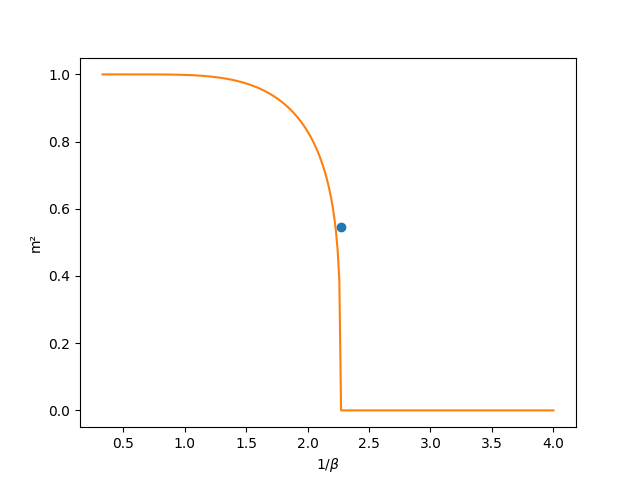
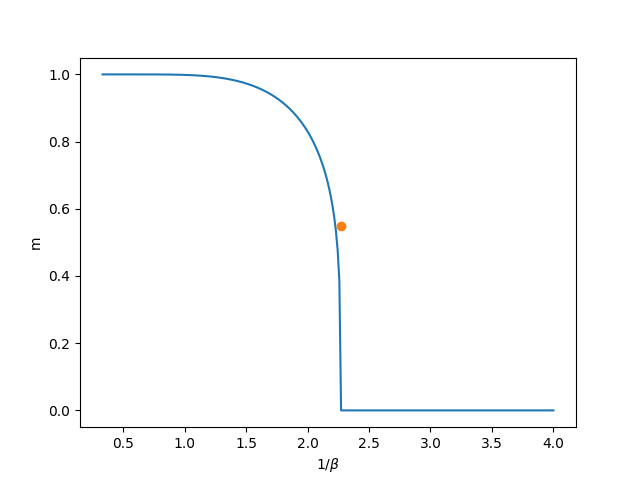
reorganized measurements structure

diff --git a/plot/plot.py b/plot/plot.py
@@ -22,11 +22,52 @@ def ene_exact(J):  # exact internal energy in thermodynamic limit (for h=0)\n",
     return -J * np.cosh(J2) * answer / np.sinh(J2)
 
 
+def append_observable(name, measurements_group_, observable_list, observable_error_list):
+    observable_group = measurements_group_.get(name)
+    observable_list.append(observable_group.attrs["bootstrap_mean"])
+    observable_error_list.append(np.sqrt(observable_group.attrs["bootstrap_variance"]))
+
+
+def make_auto_correlation_plot_to_ax(name, measurements_group_, ax_):
+    observable_group = measurements_group_.get(name)
+    observable_auto_correlation_dataset = observable_group.get("auto_correlation")
+    observable_auto_correlation = np.zeros(observable_auto_correlation_dataset.size)
+    observable_auto_correlation_dataset.read_direct(observable_auto_correlation,
+                                                    np.s_[0:observable_auto_correlation_dataset.size],
+                                                    np.s_[0:observable_auto_correlation_dataset.size])
+
+    ax_.scatter(np.arange(observable_auto_correlation.size), observable_auto_correlation)
+
+
+def make_auto_correlation_plot(name, measurements_group_):
+    fig_, ax_ = plt.subplots()
+    fig_: plt.Figure
+    ax_: plt.Axes
+    make_auto_correlation_plot_to_ax(name, measurements_group_, ax_)
+    ax_.set_yscale("log")
+    return fig_, ax_
+
+
+def make_observable_plot(name, observable_list, observable_error_list):
+    fig_, ax_ = plt.subplots()
+    fig_: plt.Figure
+    ax_: plt.Axes
+    ax_.errorbar(inverse_betas, observable_list, observable_error_list, fmt='o')
+
+    ax_.set_xlabel(r"1/$\beta$")
+    ax_.set_ylabel(r"m")
+    return fig_, ax_
+
+
+magnetization_name = "magnetization"
+magnetization_squared_name = "magnetization_squared"
+energy_name = "energy"
+energy_squared_name = "energy_squared"
+
 betas = []
 inverse_betas = []
 magnetizations = []
 magnetizations_errors = []
-magnetization_auto_correlation = np.zeros(10)
 magnetizations_squared = []
 magnetizations_squared_errors = []
 energies = []
@@ -34,9 +75,9 @@ energies_errors = []
 energies_squared = []
 energies_squared_errors = []
 
-# sub_folder_name = "checker_board_multi_level_hmc_2_levels"
-# sub_folder_name = "black_white_multi_level_hmc_2_levels"
-sub_folder_name = "std_hmc"
+sub_folder_name = "checker_board_multi_level_hmc_2_levels/"
+# sub_folder_name = "black_white_multi_level_hmc_2_levels/"
+# sub_folder_name = "std_hmc/"
 
 for file in os.listdir(sub_folder_name):
     if file.startswith("out_"):
@@ -51,82 +92,53 @@ for file in os.listdir(sub_folder_name):
         betas.append(level0_group.attrs["beta"])
         inverse_betas.append(1. / betas[-1])
 
-        if "magnetization" in measurements_group:
-            magnetization_group = measurements_group.get("magnetization")
-            magnetizations.append(magnetization_group.attrs["bootstrap_mean"])
-            magnetizations_errors.append(np.sqrt(magnetization_group.attrs["bootstrap_variance"]))
-            magnetization_auto_correlation_dataset = magnetization_group.get("auto_correlation")
-            magnetization_auto_correlation = np.resize(magnetization_auto_correlation,
-                                                       magnetization_auto_correlation_dataset.size)
-            magnetization_auto_correlation_dataset.read_direct(magnetization_auto_correlation,
-                                                               np.s_[0:magnetization_auto_correlation_dataset.size],
-                                                               np.s_[0:magnetization_auto_correlation_dataset.size])
+        if magnetization_name in measurements_group:
+            append_observable(magnetization_name, measurements_group, magnetizations, magnetizations_errors)
+            fig, ax = make_auto_correlation_plot(magnetization_name, measurements_group)
+            fig.savefig(sub_folder_name + magnetization_name + "_auto_correlation.png")
 
-        if "magnetization_squared" in measurements_group:
-            magnetization_squared_group = measurements_group.get("magnetization_squared")
-            magnetizations_squared.append(magnetization_squared_group.attrs["bootstrap_mean"])
-            magnetizations_squared_errors.append(np.sqrt(magnetization_squared_group.attrs["bootstrap_variance"]))
+        if magnetization_squared_name in measurements_group:
+            append_observable(magnetization_squared_name, measurements_group, magnetizations_squared,
+                              magnetizations_squared_errors)
+            fig, ax = make_auto_correlation_plot(magnetization_squared_name, measurements_group)
+            fig.savefig(sub_folder_name + magnetization_squared_name + "_auto_correlation.png")
 
-        if "energy" in measurements_group:
-            energy_group = measurements_group.get("energy")
-            energies.append(energy_group.attrs["bootstrap_mean"])
-            energies_errors.append(np.sqrt(energy_group.attrs["bootstrap_variance"]))
+        if energy_name in measurements_group:
+            append_observable(energy_name, measurements_group, energies, energies_errors)
+            fig, ax = make_auto_correlation_plot(energy_name, measurements_group)
+            fig.savefig(sub_folder_name + energy_name + "_auto_correlation.png")
 
-        if "energy_squared" in measurements_group:
-            energy_squared_group = measurements_group.get("energy_squared")
-            energies_squared.append(energy_squared_group.attrs["bootstrap_mean"])
-            energies_squared_errors.append(np.sqrt(energy_squared_group.attrs["bootstrap_variance"]))
-
-fig, ax = plt.subplots()
-fig: plt.Figure
-ax: plt.Axes
+        if energy_squared_name in measurements_group:
+            append_observable(energy_squared_name, measurements_group, energies_squared, energies_squared_errors)
+            fig, ax = make_auto_correlation_plot(energy_squared_name, measurements_group)
+            fig.savefig(sub_folder_name + energy_squared_name + "_auto_correlation.png")
 
 # magnetizations
 if len(magnetizations) > 0:
-    ax.errorbar(inverse_betas, magnetizations, magnetizations_errors, fmt='o')
     beta_lin = np.linspace(0.25, 3, 1000)
     m_exact = np.array([magnetization_exact(temp) for temp in beta_lin])
+    fig, ax = make_observable_plot(magnetization_name, magnetizations, magnetizations_errors)
     ax.plot(1. / beta_lin, m_exact)
     ax.plot(1. / beta_lin, -m_exact)
-
-    ax.set_xlabel(r"1/$\beta$")
-    ax.set_ylabel(r"m")
-    plt.savefig(sub_folder_name + "/magnetisation.png")
-    ax.clear()
-
-    ax.scatter(np.arange(magnetization_auto_correlation.size), magnetization_auto_correlation)
-    # ax.set_yscale("log")
-    plt.savefig(sub_folder_name + "/magnetization_auto_correlation.png")
-    ax.clear()
-    ax.set_yscale("linear")
+    fig.savefig(sub_folder_name + magnetization_name + ".png")
 
 # magnetizations_squared
 if len(magnetizations_squared) > 0:
-    ax.errorbar(inverse_betas, magnetizations_squared, magnetizations_squared_errors, fmt='o')
     m_squared_exact = m_exact ** 2  # todo
-    ax.plot(1. / beta_lin, m_squared_exact)
+    fig, ax = make_observable_plot(magnetization_squared_name, magnetizations_squared, magnetizations_squared_errors)
 
-    ax.set_xlabel(r"1/$\beta$")
-    ax.set_ylabel(r"m²")
-    plt.savefig(sub_folder_name + "/magnetization_squared.png")
-    ax.clear()
+    ax.plot(1. / beta_lin, m_squared_exact)
+    fig.savefig(sub_folder_name + magnetization_squared_name + ".png")
 
 # energies
 if len(energies) > 0:
-    ax.errorbar(inverse_betas, energies, energies_errors, fmt='o')
     e_exact = np.array([ene_exact(temp) / temp for temp in beta_lin])
+    fig, ax = make_observable_plot(energy_name, energies, energies_errors)
     ax.plot(1. / beta_lin, e_exact)
-
-    ax.set_xlabel(r"1/$\beta$")
-    ax.set_ylabel(r"e")
-    plt.savefig(sub_folder_name + "/energy.png")
-    ax.clear()
+    fig.savefig(sub_folder_name + energy_name + ".png")
 
 # energies_squared
 if len(energies_squared) > 0:
-    ax.errorbar(inverse_betas, energies_squared, energies_squared_errors, fmt='o')
-
-    ax.set_xlabel(r"1/$\beta$")
-    ax.set_ylabel(r"e²")
-    plt.savefig(sub_folder_name + "/energy_squared.png")
-    ax.clear()
+    fig, ax = make_observable_plot(energy_squared_name, energies_squared, energies_squared_errors)
+    # todo exact solution
+    fig.savefig(sub_folder_name + energy_squared_name + ".png")

diff --git a/src/main.cpp b/src/main.cpp
@@ -266,7 +266,37 @@ void test_multi_level_hmc() {
 
 }
 
-void MultiLevelTime() {
+template<class configuration_type>
+void DoMultiLevelMeasurements(MultiLevelHMCGenerator<configuration_type> &Gen, const std::string &out_filename) {
+    HighFive::File out_file(out_filename,
+                            HighFive::File::ReadWrite | HighFive::File::Create | HighFive::File::Truncate);
+    Gen.dump_observable(&BaseModel<VectorX>::get_magnetization, "magnetization", out_file);
+    Gen.analyze_dataset("magnetization", out_file, 100, 200, 200);
+    Gen.dump_observable(&BaseModel<VectorX>::get_magnetization_squared, "magnetization_squared", out_file);
+    Gen.analyze_dataset("magnetization_squared", out_file, 100, 200, 200);
+    Gen.dump_observable(&BaseModel<VectorX>::get_energy, "energy", out_file);
+    Gen.analyze_dataset("energy", out_file, 100, 200, 200);
+    Gen.dump_observable(&BaseModel<VectorX>::get_energy_squared, "energy_squared", out_file);
+    Gen.analyze_dataset("energy_squared", out_file, 100, 200, 200);
+}
+
+void DoMultiLevelMeasurementsFromFile(std::string filename) {
+
+    HighFive::File file(std::string(DATA_DIR).append(filename), HighFive::File::ReadOnly);
+    auto helper = file.getGroup("level0");//todo see if this step can be removed to be needed
+    IsingModel test(helper);
+
+    std::default_random_engine myengine{42L};
+    MultiLevelHMCGenerator mygen(test, file, myengine);
+
+    filename.insert(filename.rfind('/') + 1, "out_");
+    std::string out_filename{std::string(DATA_DIR).append(filename)};
+    DoMultiLevelMeasurements(mygen, out_filename);
+
+
+}
+
+void MultiLevelCriticalSimulation() {
     const int grid_size = 16;
     const int dim = 2;
     const int lambda = int_pow(grid_size, dim);
@@ -290,8 +320,8 @@ void MultiLevelTime() {
     std::string my_time{oss.str()};
 
 
-    MultiLevelHMCGenerator mygen(test, {0}, {1}, 1, InterpolationType::Black_White, {8},
-                                 {1. / 8.}, myengine);
+    MultiLevelHMCGenerator mygen(test, {0, 16, 16}, {1, 16, 16}, 2, InterpolationType::Black_White, {8, 32, 64},
+                                 {1. / 8., 1. / 32., 1. / 64.}, myengine);
     std::vector<double> acceptance_rates = mygen.generate_ensembles(phi0, 100000, 10000);
     for (auto acceptance_rate: acceptance_rates) {
         std::cout << "Acceptance rate:" << acceptance_rate << std::endl;
@@ -299,46 +329,10 @@ void MultiLevelTime() {
     std::string filename{std::string(DATA_DIR).append(my_time).append(std::to_string(beta)).append(".h5")};
     HighFive::File file(filename, HighFive::File::ReadWrite | HighFive::File::Create | HighFive::File::Truncate);
     mygen.dumpToH5(file);
+
     std::string out_filename{std::string(DATA_DIR).append("out_").append(my_time).
             append(std::to_string(beta)).append(".h5")};
-    HighFive::File out_file(out_filename,
-                            HighFive::File::ReadWrite | HighFive::File::Create | HighFive::File::Truncate);
-    //mygen.dumpToH5(out_file);
-    mygen.dump_observable(&BaseModel<VectorX>::get_magnetization, "magnetization", out_file);
-    mygen.analyze_dataset("magnetization", out_file, 16, 200, 30);
-    mygen.dump_observable(&BaseModel<VectorX>::get_magnetization_squared, "magnetization_squared", out_file);
-    mygen.analyze_dataset("magnetization_squared", out_file, 16, 200, 30);
-    mygen.dump_observable(&BaseModel<VectorX>::get_energy, "energy", out_file);
-    mygen.analyze_dataset("energy", out_file, 16, 200, 30);
-    mygen.dump_observable(&BaseModel<VectorX>::get_energy_squared, "energy_squared", out_file);
-    mygen.analyze_dataset("energy_squared", out_file, 16, 200, 30);
-}
-
-void test_hmc_measurements() {
-    std::string my_time{"14_04_2022__14_58_06_"};
-    for (double inverse_beta = 0.3; inverse_beta < 4.05; inverse_beta += 0.1) {
-        std::string filename{std::string(DATA_DIR).append(my_time).append(std::to_string(inverse_beta)).append(".h5")};
-        HighFive::File file(filename, HighFive::File::ReadOnly);
-        auto helper = file.getGroup("level0");//todo see if this step can be removed to be needed
-        IsingModel test(helper);
-
-        std::default_random_engine myengine{42L};
-        MultiLevelHMCGenerator mygen(test, file, myengine);
-        std::string out_filename{
-                std::string(DATA_DIR).append("out_").append(my_time).
-                        append(std::to_string(inverse_beta)).append(".h5")};
-        HighFive::File out_file(out_filename,
-                                HighFive::File::ReadWrite | HighFive::File::Create | HighFive::File::Truncate);
-        //mygen.dumpToH5(out_file);
-        mygen.dump_observable(&BaseModel<VectorX>::get_magnetization, "magnetization", out_file);
-        mygen.analyze_dataset("magnetization", out_file, 16, 200, 30);
-        mygen.dump_observable(&BaseModel<VectorX>::get_magnetization_squared, "magnetization_squared", out_file);
-        mygen.analyze_dataset("magnetization_squared", out_file, 16, 200, 30);
-        mygen.dump_observable(&BaseModel<VectorX>::get_energy, "energy", out_file);
-        mygen.analyze_dataset("energy", out_file, 16, 200, 30);
-        mygen.dump_observable(&BaseModel<VectorX>::get_energy_squared, "energy_squared", out_file);
-        mygen.analyze_dataset("energy_squared", out_file, 16, 200, 30);
-    }
+    DoMultiLevelMeasurements(mygen, out_filename);
 }
 
 /**
@@ -352,7 +346,9 @@ int main([[maybe_unused]] int argc, [[maybe_unused]] char *argv[]) {
     //test_HMC(std::string(DATA_DIR).append("HMCTest1.dat"));
     //test_multi_level_hmc();
     //test_hmc_measurements();
-    MultiLevelTime();
+    //DoMultiLevelMeasurementsFromFile(
+    // std::string("checker_board_multi_level_hmc_2_levels/02_05_2022__14_00_34_0.440687.h5"));
+    MultiLevelCriticalSimulation();
     //return test_hip();
 }
 

diff --git a/src/MultiLevelHMCGenerator/MultiLevelHMCGenerator.h b/src/MultiLevelHMCGenerator/MultiLevelHMCGenerator.h
@@ -294,8 +294,15 @@ std::vector<double> MultiLevelHMCGenerator<configuration_type>::generate_ensembl
         elem = 0.;
     }
     for (int i = 0; i < amount_of_samples; ++i) {
+        if (i % (amount_of_samples / 10) == 0) {
+            std::cout << "|";
+        }
+        if (i % (amount_of_samples / 100) == 0) {
+            std::cout << "=";
+        }
         phi = LevelRecursion(0, phi);
     }
+    std::cout << std::endl;
 
     for (int i = 0; i < AcceptanceRates.size(); ++i) {
         AcceptanceRates[i] = AcceptanceRates[i] / (amount_of_samples * (nu_pre[i] + nu_post[i]) * int_pow(gamma, i));
